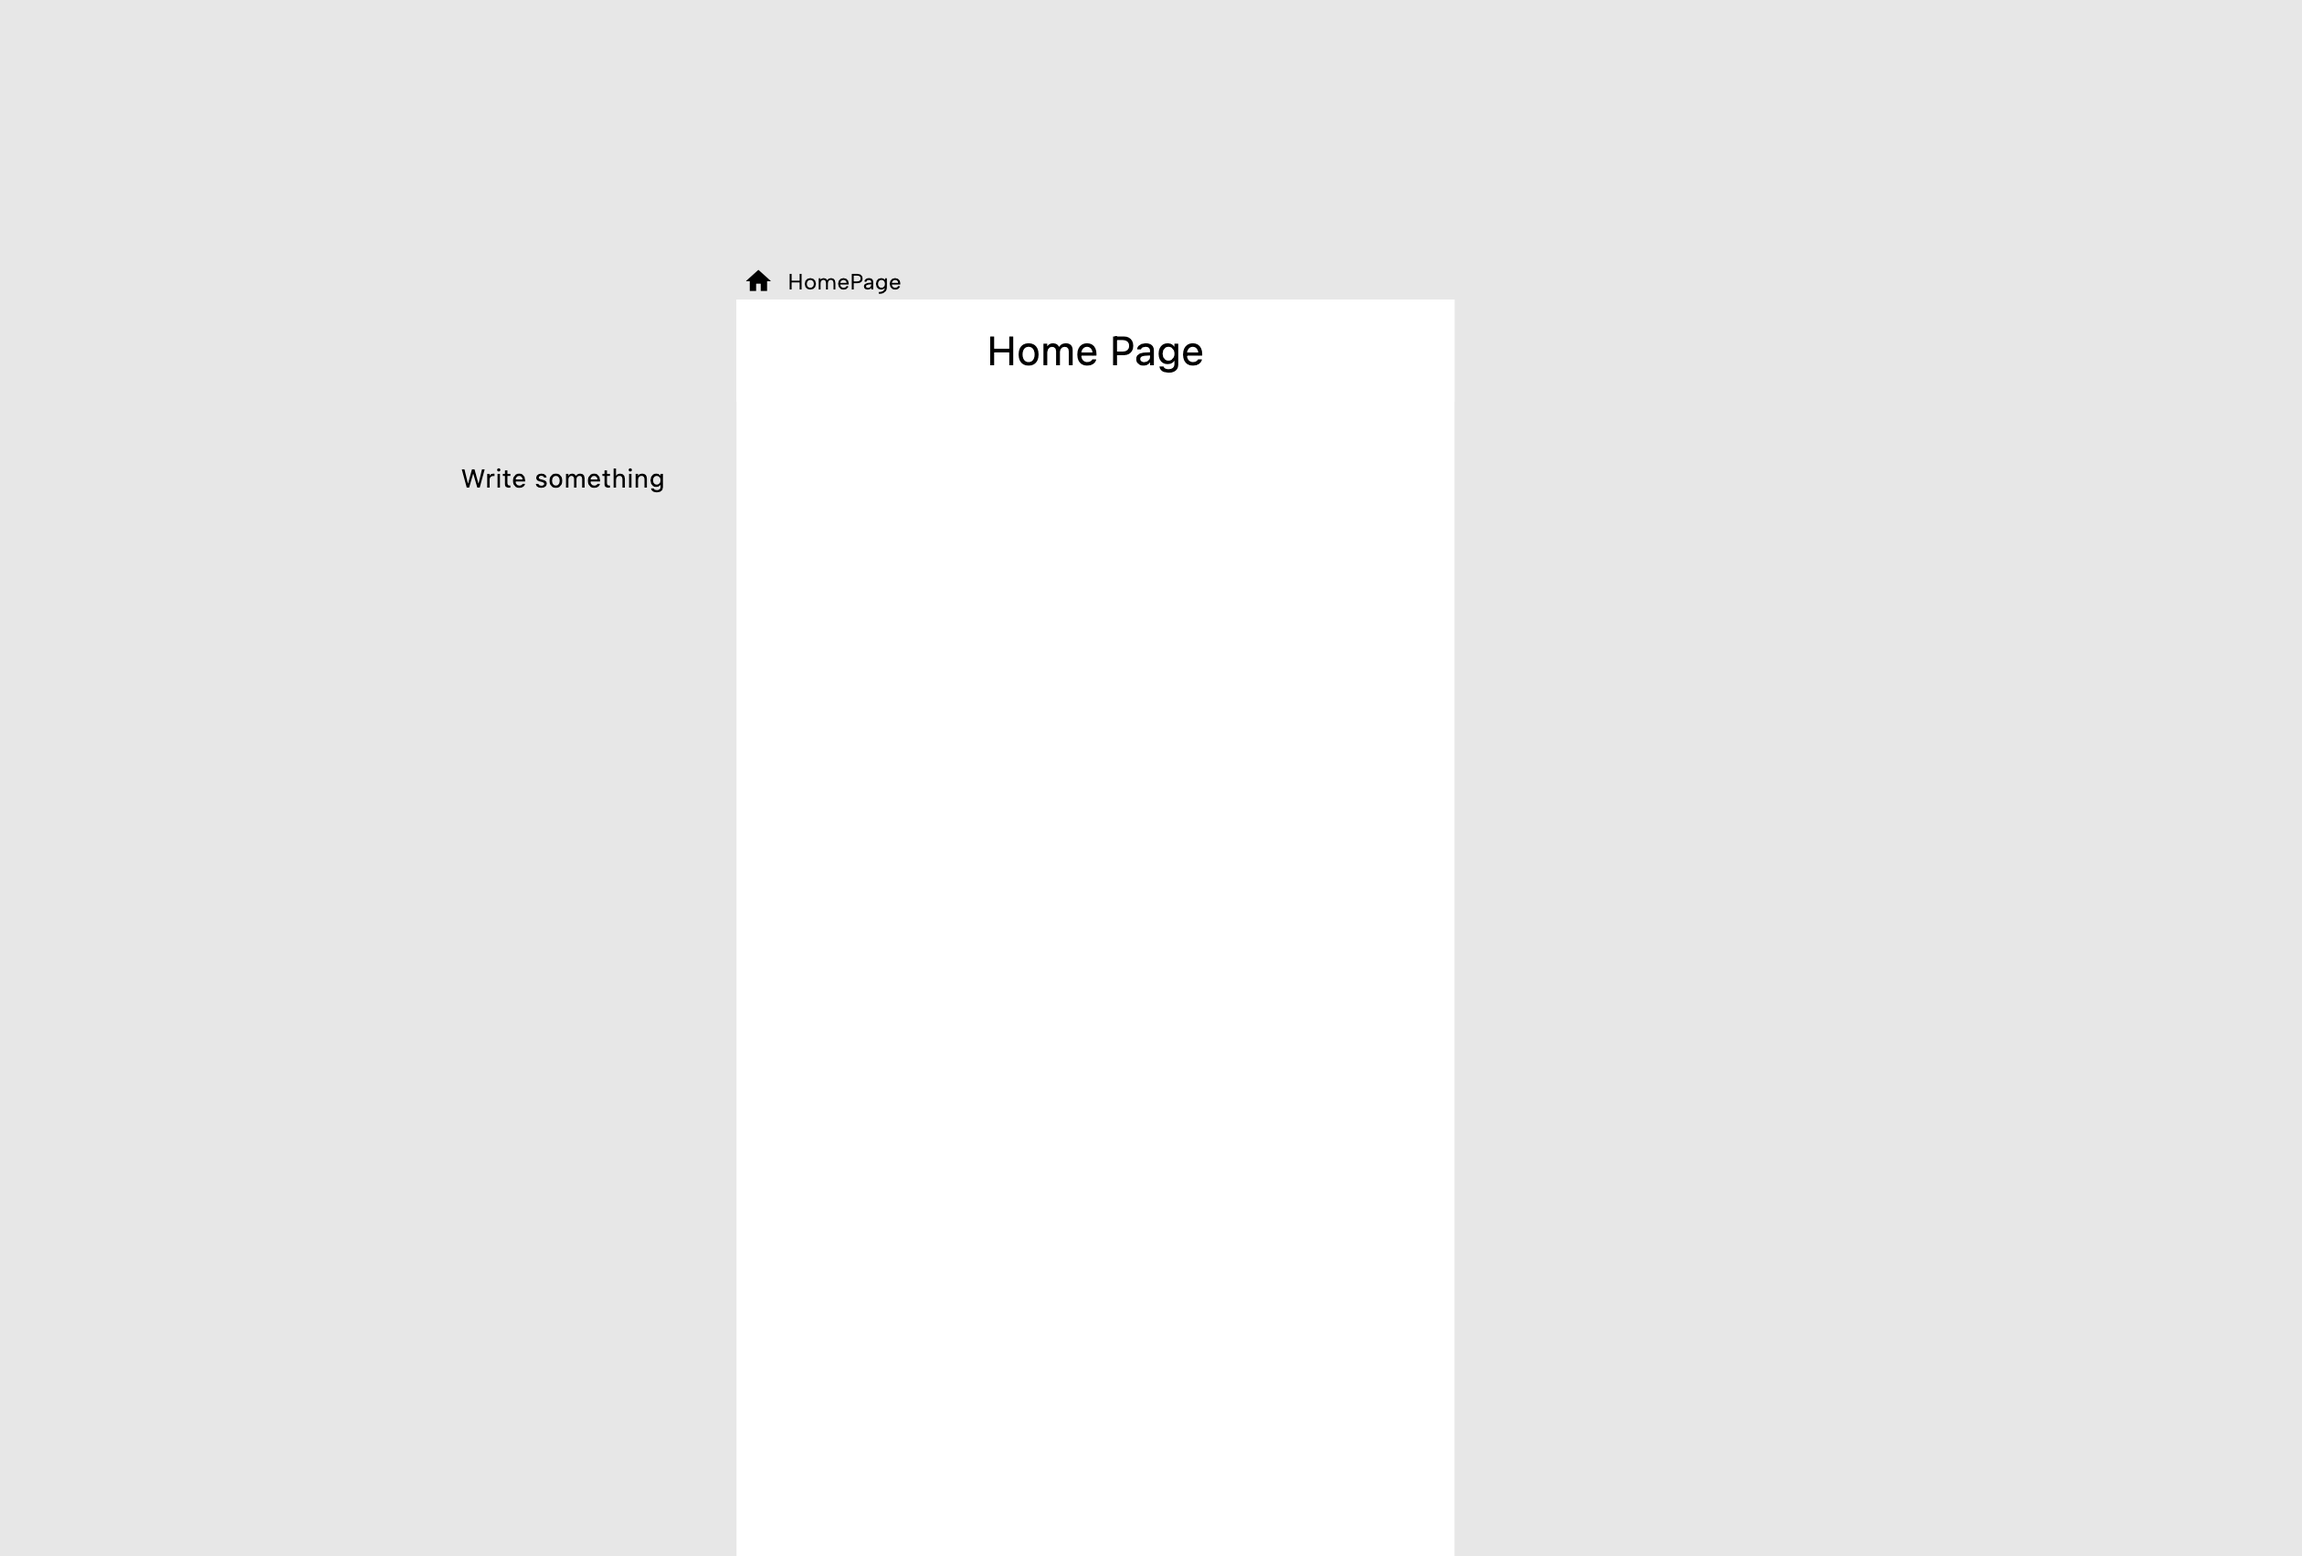
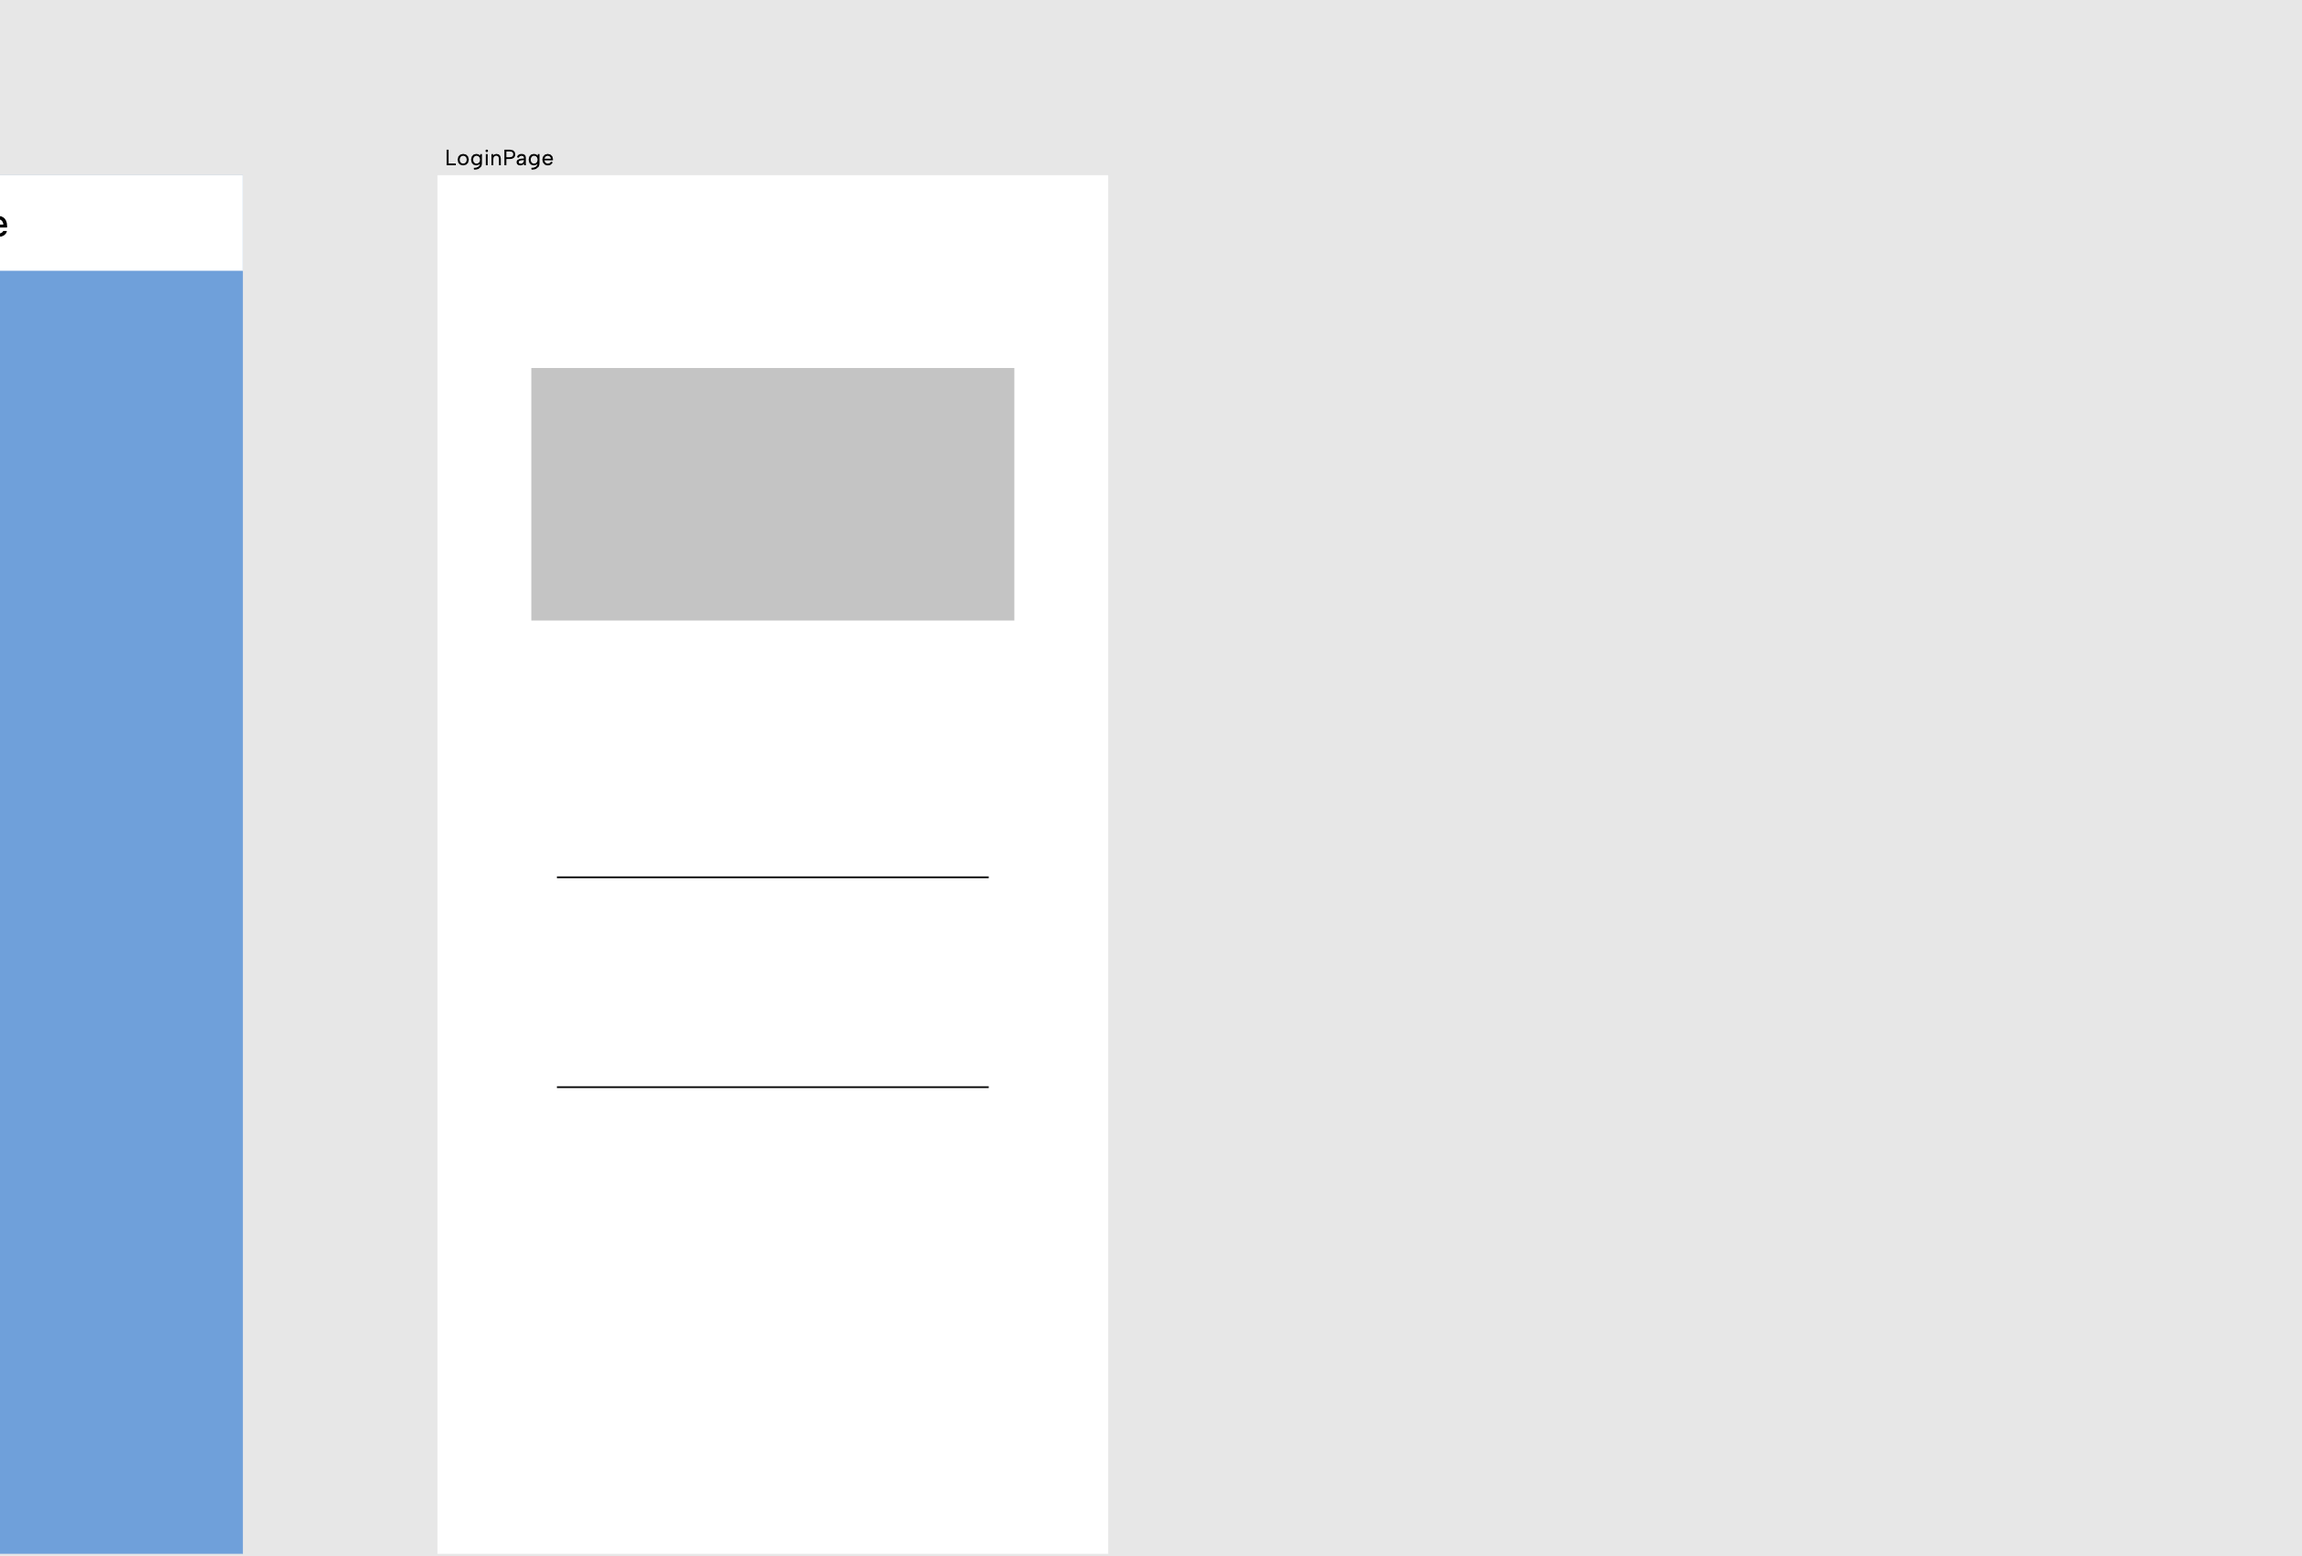
adding auth page

diff --git a/lib/login_page.dart b/lib/login_page.dart
@@ -1,0 +1,63 @@
+import 'package:flutter/material.dart';
+import 'package:nowa_runtime/nowa_runtime.dart';
+
+@NowaGenerated()
+class LoginPage extends StatefulWidget {
+  @NowaGenerated({'loader': 'auto-constructor'})
+  const LoginPage({super.key});
+
+  @override
+  State<LoginPage> createState() {
+    return _LoginPageState();
+  }
+}
+
+@NowaGenerated()
+class _LoginPageState extends State<LoginPage> {
+  TextEditingController text = TextEditingController();
+
+  TextEditingController text1 = TextEditingController();
+
+  @override
+  Widget build(BuildContext context) {
+    return Scaffold(
+      body: SafeArea(
+        child: Stack(
+          fit: StackFit.expand,
+          alignment: const Alignment(0.0, 0.0),
+          children: [
+            Positioned(
+              top: 113.0,
+              left: 55.0,
+              width: 283.0,
+              height: 148.0,
+              child: Container(
+                decoration: BoxDecoration(
+                    color: Color(0xffc4c4c4),
+                    borderRadius: BorderRadius.circular(0.0)),
+              ),
+            ),
+            Positioned(
+              top: 366.0,
+              left: 70.0,
+              width: 253.0,
+              height: 46.0,
+              child: TextFormField(
+                controller: text,
+              ),
+            ),
+            Positioned(
+              top: 489.0,
+              left: 70.0,
+              width: 253.0,
+              height: 46.0,
+              child: TextFormField(
+                controller: text1,
+              ),
+            )
+          ],
+        ),
+      ),
+    );
+  }
+}
